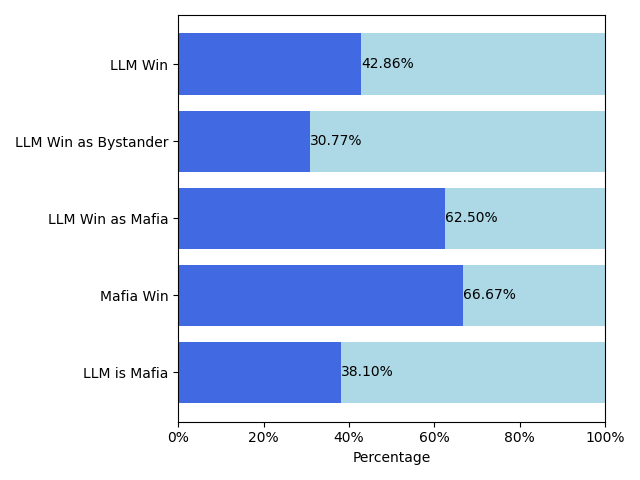
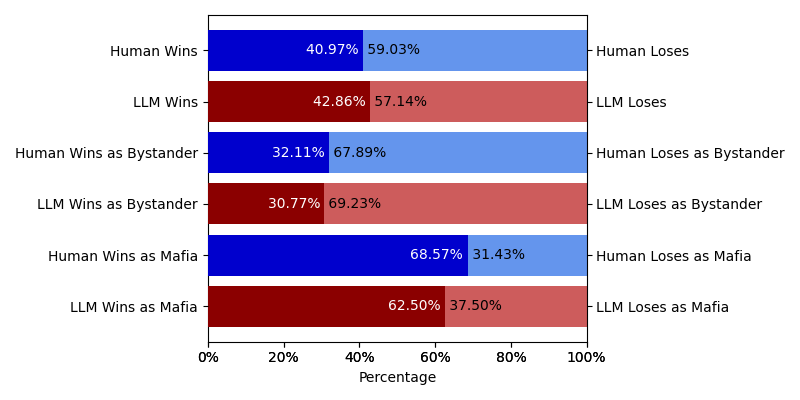
updated analysis by paper corrections

diff --git a/analyze.py b/analyze.py
@@ -937,37 +937,44 @@ def get_embeddings(messages: list[ParsedMessage], model_name=SENTENCE_EMBEDDING_
     return embeddings
 
 
-def plot_percentage_bars_chart(did_llm_win, was_llm_voted_out, did_mafia_win, is_llm_mafia):
+def plot_percentage_bars_chart(did_llm_win, is_llm_mafia,
+                               did_human_win_as_mafia, did_human_win_as_bystander):
     # Percentage plots of winning percentage, winning as Mafia, winning as bystander, playing as mafia, mafia is winning
-    # did_llm_win_alive = []
     did_llm_win_as_mafia = []
     did_llm_win_as_bystander = []
-    # did_llm_win_alive_as_mafia = []
-    # did_llm_win_alive_as_bystander = []
     for i, llm_win in enumerate(did_llm_win):
-        # llm_win_alive = llm_win and was_llm_voted_out[i]
-        # did_llm_win_alive.append(llm_win_alive)
         if is_llm_mafia[i]:
             did_llm_win_as_mafia.append(llm_win)
-            # did_llm_win_alive_as_mafia.append(llm_win_alive)
         else:
             did_llm_win_as_bystander.append(llm_win)
-            # did_llm_win_alive_as_bystander.append(llm_win_alive)
-    default_true_color, default_false_color = "royalblue", "lightblue"  # "darkblue", "slateblue"  # "darkred", "indianred"
-    for label, values, true_color, false_color in [
-        ("LLM Win", did_llm_win, default_true_color, default_false_color),
-        # ("LLM Win A", did_llm_win_alive, default_true_color, default_false_color),
-        ("LLM Win as Bystander", did_llm_win_as_bystander, default_true_color, default_false_color),
-        # ("LLM Win A (B)", did_llm_win_alive_as_bystander, default_true_color, default_false_color),
-        ("LLM Win as Mafia", did_llm_win_as_mafia, default_true_color, default_false_color),
-        # ("LLM Win A (M)", did_llm_win_alive_as_mafia, default_true_color, default_false_color),
-        ("Mafia Win", did_mafia_win, default_true_color, default_false_color),
-        ("LLM is Mafia", is_llm_mafia, default_true_color, default_false_color),
-                                                  ][::-1]:
+    # default_true_color, default_false_color = "royalblue", "lightblue"  # "darkblue", "slateblue"  # "darkred", "indianred"
+    human_true_color, human_false_color = "mediumblue", "cornflowerblue"
+    llm_true_color, llm_false_color = "darkred", "indianred"
+    plt.figure(figsize=(8, 4))
+    ax = plt.subplot(1, 1, 1)  # used to merge X-axis
+    ax.yaxis.tick_right()
+    for false_label, false_color in [
+        ("Human Loses", human_false_color),
+        ("LLM Loses", llm_false_color),
+        ("Human Loses as Bystander", human_false_color),
+        ("LLM Loses as Bystander", llm_false_color),
+        ("Human Loses as Mafia", human_false_color),
+        ("LLM Loses as Mafia", llm_false_color)
+    ][::-1]:
+        plt.barh(false_label, 1, color=false_color)
+    plt.subplot(1, 1, 1, sharex=ax, frameon=False)
+    for true_label, values, true_color in [
+        ("Human Wins", did_human_win_as_mafia + did_human_win_as_bystander, human_true_color),
+        ("LLM Wins", did_llm_win, llm_true_color),
+        ("Human Wins as Bystander", did_human_win_as_bystander, human_true_color),
+        ("LLM Wins as Bystander", did_llm_win_as_bystander, llm_true_color),
+        ("Human Wins as Mafia", did_human_win_as_mafia, human_true_color),
+        ("LLM Wins as Mafia", did_llm_win_as_mafia, llm_true_color),
+    ][::-1]:
         true_percent = avg(values)
-        plt.barh(label, 1, color=false_color)
-        plt.barh(label, true_percent, color=true_color)
-        plt.text(true_percent, label, f"{true_percent * 100:.2f}%", va="center")
+        plt.barh(true_label, true_percent, color=true_color)
+        plt.text(true_percent, true_label, f"{true_percent * 100:.2f}% ", va="center", ha="right", c="white")
+        plt.text(true_percent, true_label, f" {(1 - true_percent) * 100:.2f}%", va="center", ha="left")
     plt.xlim(0, 1)
     plt.xticks([0, 0.2, 0.4, 0.6, 0.8, 1],
                ["0%", "20%", "40%", "60%", "80%", "100%"])
@@ -991,12 +998,12 @@ def calc_message_amount_by_player_during_daytime(parsed_messages_by_phase_all_ga
                 message_amounts.append(len([msg for msg in phase.messages
                                             if msg.name == player_name]))
     print("Now in Latex table format:")
-    print(fr"Player Type & Mean & STD \\")
+    print(fr"\textbf{{Player Type}} & \textbf{{Avg \# Msg ($\pm$ STD)}} \\")
     for player_type, all_amounts in [("Human", human_player_daytime_message_amount),
                                      ("LLM", llm_player_daytime_message_amount),
-                                     ("All players", human_player_daytime_message_amount
-                                                     + llm_player_daytime_message_amount)]:
-        print(fr"{player_type} & {np.mean(all_amounts):.2f} & {np.std(all_amounts):.2f} \\")
+                                     # ("All players", human_player_daytime_message_amount + llm_player_daytime_message_amount)
+                                     ]:
+        print(fr"{player_type} & {display_mean_std(all_amounts)} \\")
     print("\n")
 
 
@@ -1042,7 +1049,7 @@ def plot_merged_timing_diff_hists(mean_per_game_of_timing_diff_of_messages_sent_
                                 mean_per_game_of_timing_diff_of_messages_sent_by_llm,
                                 "Distribution of Average Time Between a Player's Message\n"
                                 "and the Previous Message by Any Other Player",
-                                "Player's Average Waiting Time From Another Message (seconds)",
+                                "Player's Average Waiting Time From Previous Message (seconds)",
                                 "mean_time_diff_msg_to_any_prev",
                                 axs[0], kde_bandwidth=1.5)  # TODO: change when there is more data
     plot_timing_diffs_histogram(mean_per_game_of_timing_diff_of_self_messages_by_humans,
@@ -1104,6 +1111,8 @@ def display_mean_std(metric_list):
 def calc_message_content_empiric_metrics(human_content_metrics, llm_content_metrics):
     print("Player type, then metrics by order:", ", ".join(CONTENT_METRICS))
     print("Now in Latex table format:")
+    print(fr"\textbf{{Player Type}} & \textbf{{\# Words Per Message}} & "
+          fr"\textbf{{\# Repeated Messages}} & \textbf{{\#  Unique Words}} \\")
     for player_type, metric_lists in [("Human", human_content_metrics),
                                       ("LLM", llm_content_metrics)]:
         print(f"{player_type} & {' & '.join([display_mean_std(metric_lists[metric]) for metric in CONTENT_METRICS])}" + " \\\\")
@@ -1113,13 +1122,13 @@ def calc_players_metric(metrics_results_all_games: defaultdict[str, list[int]]):
     for metric, results_by_game in metrics_results_all_games.items():
         all_results = sum(results_by_game, [])
         if metric == LLM_IDENTIFICATION:
-            print(f"{metric}: {np.mean(all_results) * 100:.2f}%")
+            print(f"\n{metric}: {np.mean(all_results) * 100:.2f}%\n")
         else:
-            print(f"{metric.upper()}: MEAN, STD -\n"
-                  f"{np.mean(all_results):.2f} & {np.std(all_results):.2f} \\\\")
+            print(f"% {metric.upper()}: MEAN, STD -\n"
+                  f"{{COPY_HERE_NAME}} & {display_mean_std(all_results)} \\\\")
 
 
-def calc_dataset_metadat(parsed_messages_by_phase_all_games: list[list[Phase]]):
+def calc_dataset_metadata(parsed_messages_by_phase_all_games: list[list[Phase]]):
     print("*** Dataset Metadata ***")
     all_messages_by_game = [sum([phase.messages for phase in game], [])
                             for game in parsed_messages_by_phase_all_games]
@@ -1149,6 +1158,44 @@ def calc_dataset_metadat(parsed_messages_by_phase_all_games: list[list[Phase]]):
     print("\n***\nREMEMBER to manually check statistics for num games played by a player!\n")
 
 
+def add_human_winning_statistics(human_players, mafia_players, did_mafia_win,
+                                 did_human_win_as_mafia_all_games,
+                                 did_human_win_as_bystander_all_games):
+    for player in human_players:
+        if player in mafia_players:
+            did_human_win_as_mafia_all_games.append(did_mafia_win)
+        else:
+            did_human_win_as_bystander_all_games.append(not did_mafia_win)
+
+
+def check_variance_of_num_messages_throughout_phases(parsed_messages_by_phase_all_games: list[list[Phase]]):
+    MAX_DAYTIME_NUM = 6
+    num_messages_per_phase = {i + 1: [] for i in range(MAX_DAYTIME_NUM)}  # by phase index
+    for game in parsed_messages_by_phase_all_games:
+        phase_counter = 0
+        for phase in game:
+            if not phase.is_daytime:
+                continue
+            phase_counter += 1
+            if phase_counter not in num_messages_per_phase:
+                continue
+            num_messages_per_phase[phase_counter].append(len(phase.messages))
+    means, means_p_std, means_m_std = [], [], []
+    for num_messages in num_messages_per_phase.values():
+        mean, std = np.mean(num_messages), np.std(num_messages)
+        means.append(mean)
+        means_p_std.append(mean + std)
+        means_m_std.append(mean - std)
+    plt.fill_between(num_messages_per_phase.keys(), means_p_std, means_m_std, alpha=0.3,
+                     label=r"mean $\pm$ STD", color="C0")
+    plt.plot(num_messages_per_phase.keys(), means, label="mean", color="C0", marker="o")
+    plt.ylim(0, max(sum(num_messages_per_phase.values(), [])))
+    plt.xlabel("Daytime index in game")
+    plt.ylabel("Num messages in a daytime phase")
+    plt.legend()
+    plt.show()
+
+
 def main():
     # Should include:
     # 0. Dataset metadat
@@ -1159,6 +1206,7 @@ def main():
     # 1.1 Percentage plots (instead of Pie Chats like in LIMA) of winning percentage, winning as Mafia, winning as bystander, playing as mafia, mafia is winning
     # 2. Message Quantity:
     # 2.1 Table: Amount of messages sent by a player during a daytime phase.
+    # 2.1.1. Plot or just check: average and STD of num messages per phase (check if stays similar through the phases - indicating that the fewer people need to fill the void with more messages)
     # 2.2 Smoothed Histograms - averaged time differences for a player in a game:
     # 2.2.1 between a message and the previous one by anyone
     # 2.2.2 between a message and the previous one by the same player!
@@ -1177,6 +1225,8 @@ def main():
     did_llm_win_all_games = []
     was_llm_voted_out_all_games = []
     is_llm_mafia_all_games = []
+    did_human_win_as_mafia_all_games = []
+    did_human_win_as_bystander_all_games = []
 
     parsed_messages_by_phase_all_games = []
     llm_names_all_games = []
@@ -1218,6 +1268,9 @@ def main():
         did_llm_win_all_games.append(did_llm_win)
         was_llm_voted_out_all_games.append(was_llm_voted_out)
         is_llm_mafia_all_games.append(is_llm_mafia)
+        add_human_winning_statistics(human_players, mafia_players, did_mafia_win,
+                                     did_human_win_as_mafia_all_games,
+                                     did_human_win_as_bystander_all_games)
 
         parsed_messages_by_phase_all_games.append(parsed_messages_by_phase)
         llm_names_all_games.append(llm_player_name)
@@ -1243,33 +1296,35 @@ def main():
 
     # TODO: uncomment out important parts when finished
 
-    # 0.
-    calc_dataset_metadat(parsed_messages_by_phase_all_games)
+    # # 0.
+    # calc_dataset_metadata(parsed_messages_by_phase_all_games)
 
-    # 1.
-    plot_percentage_bars_chart(did_llm_win_all_games, was_llm_voted_out_all_games,
-                               did_mafia_win_all_games, is_llm_mafia_all_games)
+    # # 1.
+    # plot_percentage_bars_chart(did_llm_win_all_games, is_llm_mafia_all_games,
+    #                            did_human_win_as_mafia_all_games,
+    #                            did_human_win_as_bystander_all_games)
 
     # 2.1.
     calc_message_amount_by_player_during_daytime(parsed_messages_by_phase_all_games,
                                                  llm_names_all_games)
+    check_variance_of_num_messages_throughout_phases(parsed_messages_by_phase_all_games)
 
-    # 2.2.
-    plot_merged_timing_diff_hists(mean_per_game_of_timing_diff_of_messages_sent_by_humans,
-                                  mean_per_game_of_timing_diff_of_messages_sent_by_llm,
-                                  mean_per_game_of_timing_diff_of_self_messages_by_humans,
-                                  mean_per_game_of_timing_diff_of_self_messages_by_llm)
+    # # 2.2.
+    # plot_merged_timing_diff_hists(mean_per_game_of_timing_diff_of_messages_sent_by_humans,
+    #                               mean_per_game_of_timing_diff_of_messages_sent_by_llm,
+    #                               mean_per_game_of_timing_diff_of_self_messages_by_humans,
+    #                               mean_per_game_of_timing_diff_of_self_messages_by_llm)
 
-    # 3.
-    calc_message_content_empiric_metrics(human_content_metrics, llm_content_metrics)
+    # # 3.
+    # calc_message_content_empiric_metrics(human_content_metrics, llm_content_metrics)
 
-    # 4.
-    # TODO: remember I fix is_daytime here!
-    analyze_embeddings(all_player_messages, is_mafia_all_player_messages,
-                       is_daytime_all_player_messages)
+    # # 4.
+    # # TODO: remember I fix is_daytime here!
+    # analyze_embeddings(all_player_messages, is_mafia_all_player_messages,
+    #                    is_daytime_all_player_messages)
 
-    # 5.
-    calc_players_metric(metrics_results_all_games)
+    # # 5.
+    # calc_players_metric(metrics_results_all_games)
 
     print("wait")
 
